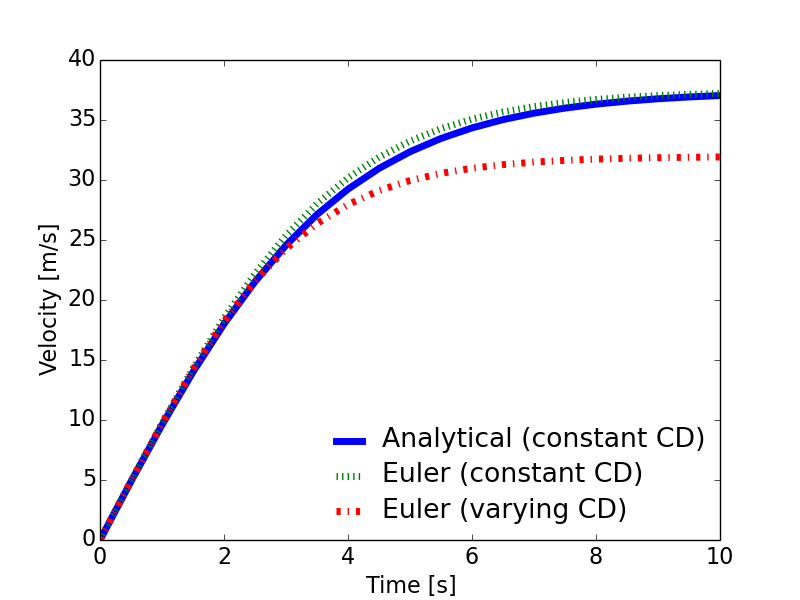
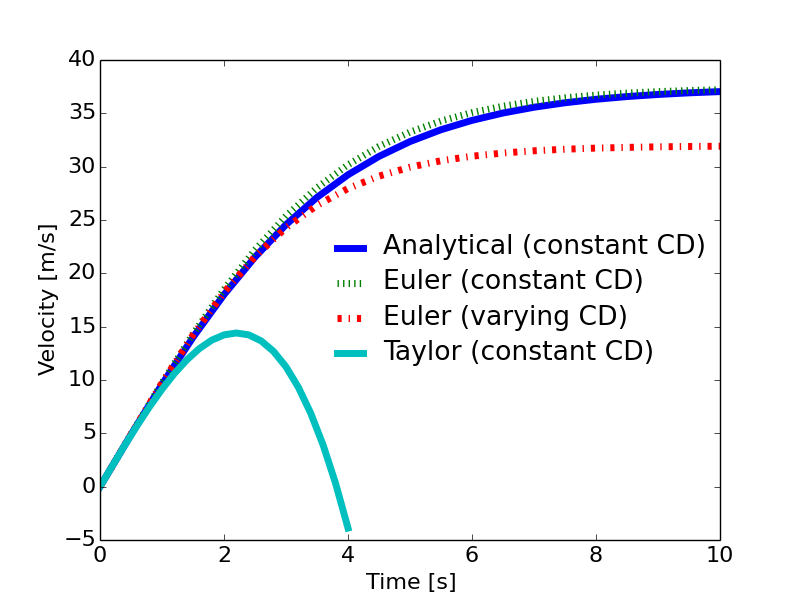
updates

diff --git a/allfiles/digital_compendium/chapter1/programs_and_modules/Euler_timestep_ctrl.py b/allfiles/digital_compendium/chapter1/programs_and_modules/Euler_timestep_ctrl.py
@@ -1,4 +1,4 @@
-# chapter1/programs_and_modules/FallingSphereEuler.py;DragCoefficientGeneric.py @ git@lrhgit/tkt4140/allfiles/digital_compendium/chapter1/programs_and_modules/DragCoefficientGeneric.py;
+# chapter1/programs_and_modules/Euler_timestep_ctrl.py;DragCoefficientGeneric.py @ git@lrhgit/tkt4140/allfiles/digital_compendium/chapter1/programs_and_modules/DragCoefficientGeneric.py;
 from DragCoefficientGeneric import cd_sphere    
 from matplotlib.pyplot import *
 import numpy as np
@@ -78,27 +78,30 @@ for i in range(Ndts):
     v_a = k1*np.tanh(k2*time)   # compute response with constant CD using analytical solution
     abs_error=np.abs(ze[:,1] - v_a)
     log_error = np.log10(abs_error[1:])
-    max_log_err = np.max(log_error)
-    plot(time, ze[:,1])
-    legends.append('euler ' + str(i))
+    max_log_error = np.max(log_error)
+    #plot(time, ze[:,1])
+    plot(time[1:], log_error)
+    legends.append('euler: N ' + str(N) + ' timesteps' )
     N*=2
     if i > 0:
-        error_diff.append(previous_max_log_err-max_log_err)
+        error_diff.append(previous_max_log_err-max_log_error)
 
-    previous_max_log_err = max_log_err
-
+    previous_max_log_err = max_log_error
+    
 print 10**(np.mean(error_diff))
 
 # plot analytical solution
-plot(time,v_a)
-legends.append('analytical')
+# plot(time,v_a)
+# legends.append('analytical')
 
 # fix plot 
 legend(legends, loc='best', frameon=False)
 font = {'size' : 16}
 rc('font', **font)
 xlabel('Time [s]')
-ylabel('Velocity [m/s]')
+#ylabel('Velocity [m/s]')
+ylabel('log10-error')
+
 #savefig('example_sphere_falling_euler.png', transparent=True)
 show()
 

diff --git a/allfiles/Kap6/laxwen.py b/allfiles/Kap6/laxwen.py
@@ -6,7 +6,7 @@ matplotlib.rcParams['lines.linewidth'] = LNWDT; matplotlib.rcParams['font.size']
 
 def f(x):
     f=np.ones(x.shape)
-    f[np.where(x>0.5)] = 0.0
+    f[np.where(x>0.2)] = 0.0
     
     return f
 
@@ -17,10 +17,10 @@ x = np.linspace(xmin,xmax,n+1,'float')
 dx = float(xmax-xmin)/n
 
 a=1.0
-C=1.01
+C=0.9
 dt = C*dx/a
 
-(tmin,tmax) = (0, 0.4)
+(tmin,tmax) = (0, 0.9)
 
 m=round((tmax-tmin)/dt) #Number of temporal intervals
 time=np.linspace(tmin,tmax,m)
@@ -58,7 +58,7 @@ for t in time:
 
     if (np.mod(i,nOutputInt)==0):
         Curve.set_ydata(u)
-        plt.pause(0.0001)
+        plt.pause(0.5)
         plt.title('step = %3d; t = %f' % (i,t))
 
 #Curve.set_ydata(u)

diff --git a/allfiles/digital_compendium/chapter1/programs_and_modules/FallingSphereEuler.py b/allfiles/digital_compendium/chapter1/programs_and_modules/FallingSphereEuler.py
@@ -86,7 +86,7 @@ legends.append('Euler (constant CD)')
 plot(time, ze2[:,1], line_type[3])
 legends.append('Euler (varying CD)')
 
-time_taylor = np.linspace(0, 3, N+1)
+time_taylor = np.linspace(0, 4, N+1)
 
 plot(time_taylor, v_taylor(time_taylor))
 legends.append('Taylor (constant CD)')
@@ -96,6 +96,6 @@ font = {'size' : 16}
 rc('font', **font)
 xlabel('Time [s]')
 ylabel('Velocity [m/s]')
-savefig('example_sphere_falling_euler.png', transparent=True)
+#savefig('example_sphere_falling_euler.png', transparent=True)
 show()
 

diff --git a/allfiles/Kap6/laxwen2.py b/allfiles/Kap6/laxwen2.py
@@ -20,7 +20,7 @@ a=1.0
 C=1.01
 dt = C*dx/a
 
-(tmin,tmax) = (0, 0.4)
+(tmin,tmax) = (0, 0.8)
 
 m=round((tmax-tmin)/dt) #Number of temporal intervals
 time=np.linspace(tmin,tmax,m)
@@ -58,7 +58,7 @@ for t in time:
 
     if (np.mod(i,nOutputInt)==0):
         Curve.set_ydata(u)
-        plt.pause(0.0001)
+        plt.pause(0.3)
         plt.title('step = %3d; t = %f' % (i,t))
 
 #Curve.set_ydata(u)
